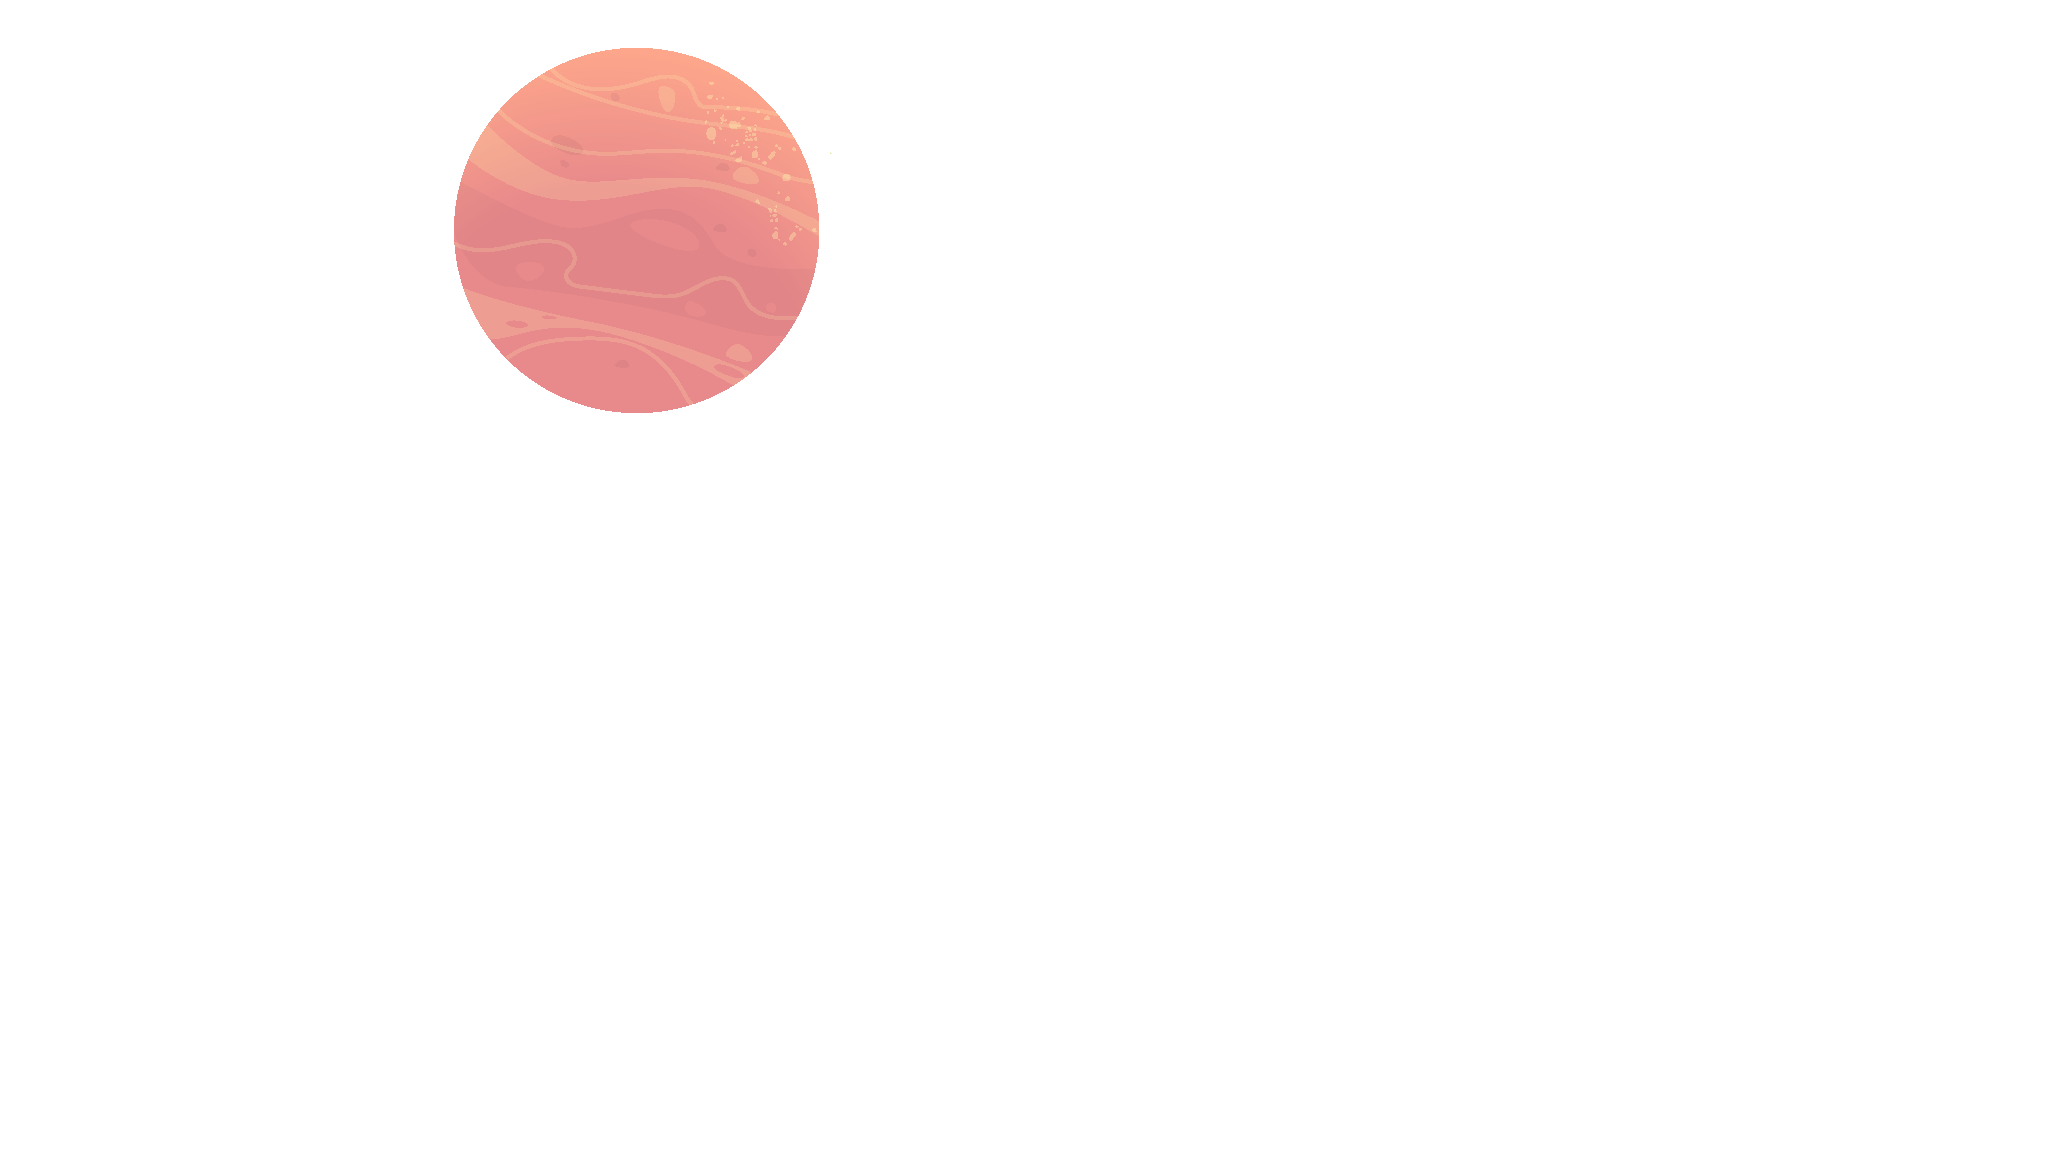
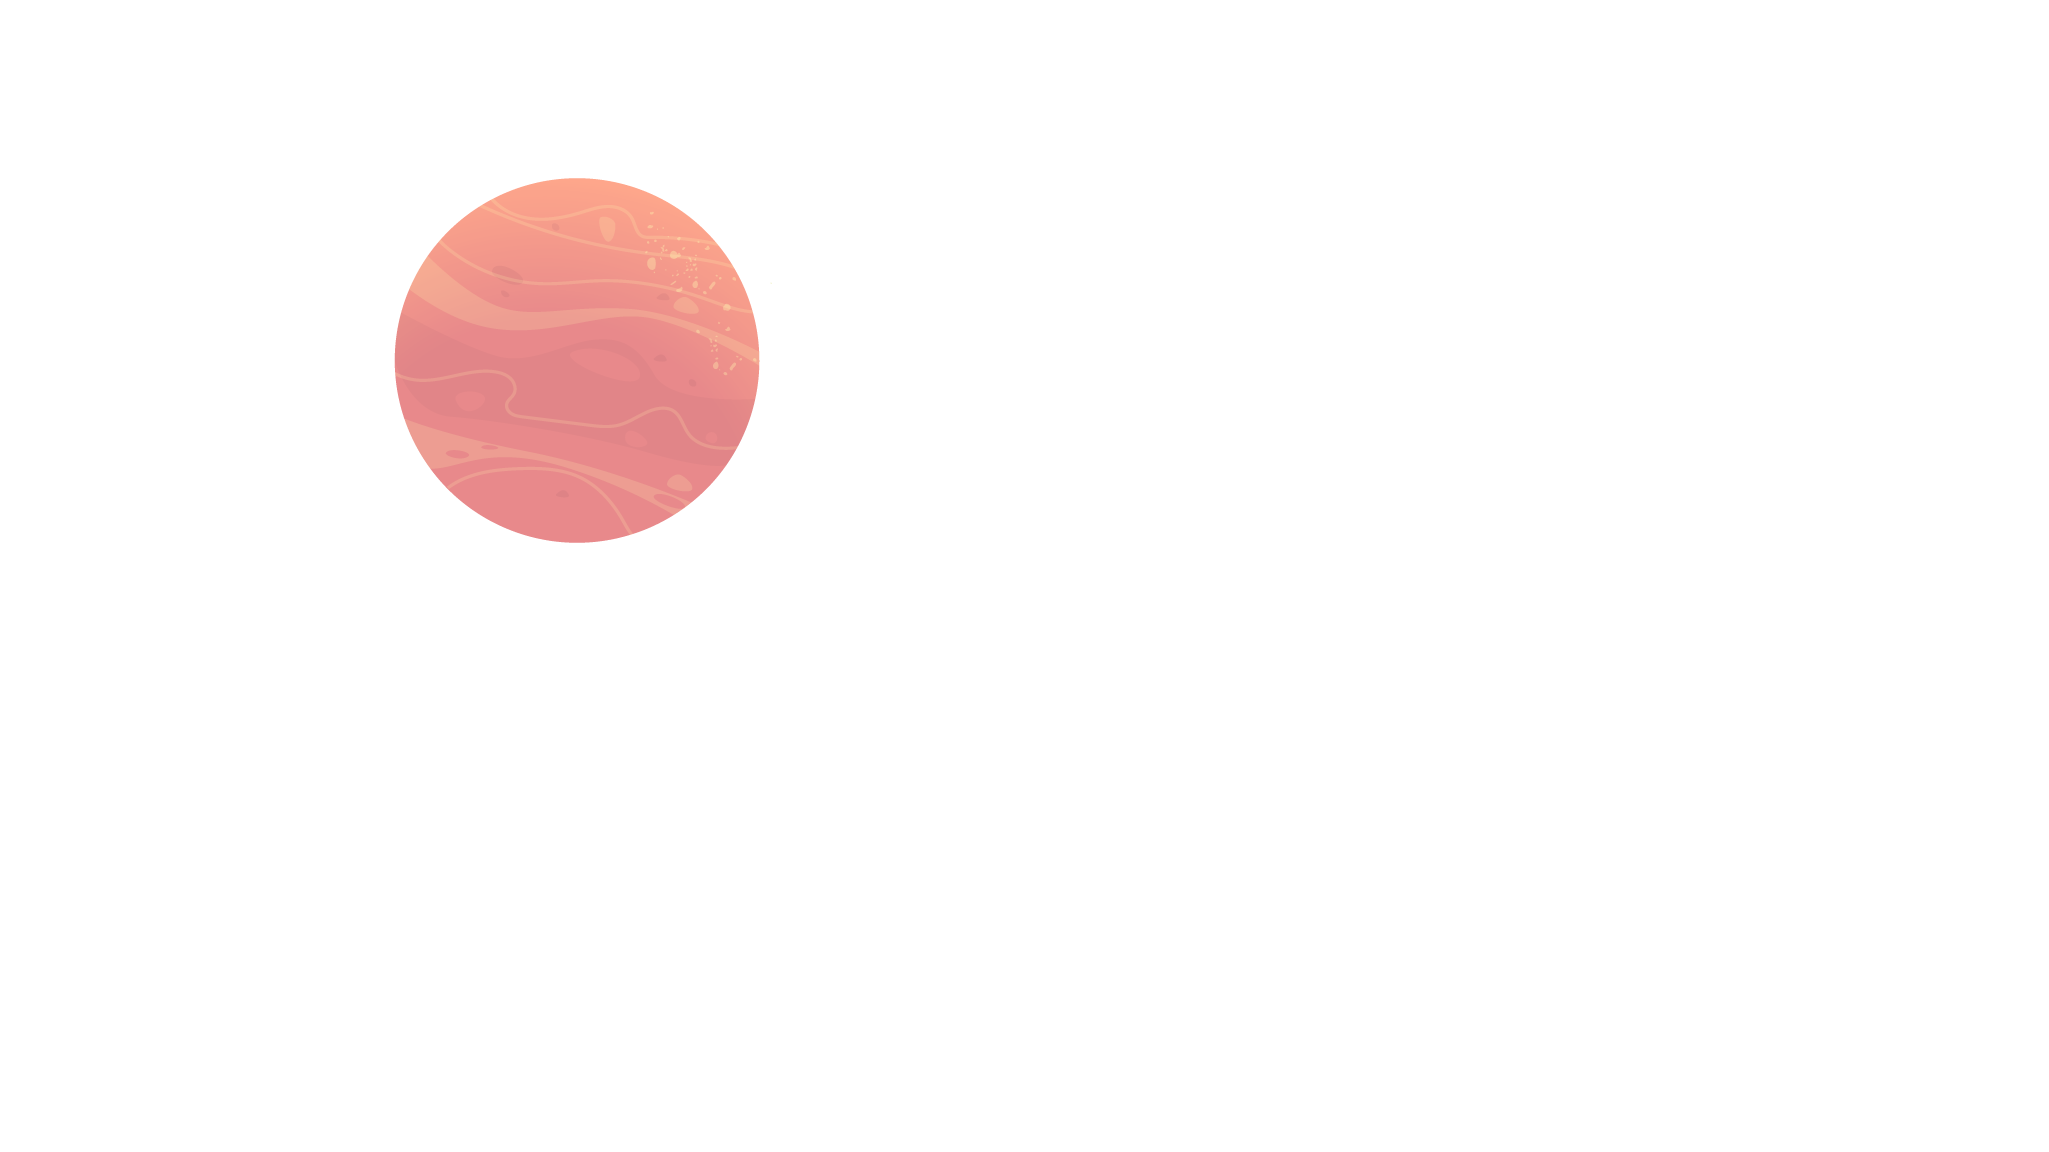
메인 페이지 행성 이미지 교체 및 애니메이트 처리, 헤더 테마 변경 섹션부분 전반적으로 수정, 개인소개 페이지 부분 내용 추가 및 이모지 이미지 추가

Changed region(s): [[0.1874, 0.0312, 0.4061, 0.4688]]

diff --git a/src/components/Header.tsx b/src/components/Header.tsx
@@ -3,6 +3,7 @@ import styled from "styled-components";
 import { useRecoilState, useRecoilValue } from "recoil";
 import { IsTop, IsUp, themeMode } from "../atom";
 import { motion, AnimatePresence } from "framer-motion";
+import { AiFillCaretDown } from "react-icons/ai";
 import { BsFillMoonStarsFill } from "react-icons/bs";
 import { IoMdPlanet } from "react-icons/io";
 
@@ -33,14 +34,16 @@ function Header() {
           <Box>
             <ThemeArea onClick={switchClickFn}>
               {theme === "moon" ? (
-                <SelectTheme>
-                  <BsFillMoonStarsFill className="icon" />
-                  <SText>Moon</SText>
+                <SelectTheme isOpen={isOpen}>
+                  <BsFillMoonStarsFill className="icon moon" />
+                  <SText>THEME</SText>
+                  <AiFillCaretDown className="arrow" />
                 </SelectTheme>
               ) : (
-                <SelectTheme>
+                <SelectTheme isOpen={isOpen}>
                   <IoMdPlanet className="icon" />
-                  <SText>Mars</SText>
+                  <SText>THEME</SText>
+                  <AiFillCaretDown className="arrow" />
                 </SelectTheme>
               )}
               {isOpen && (
@@ -50,8 +53,8 @@ function Header() {
                   animate="open"
                   exit="exit"
                 >
-                  <Theme onClick={() => setTheme("moon")}>Moon</Theme>
-                  <Theme onClick={() => setTheme("mars")}>Mars</Theme>
+                  <Theme onClick={() => setTheme("moon")}>MOON</Theme>
+                  <Theme onClick={() => setTheme("mars")}>MARS</Theme>
                 </ThemeList>
               )}
             </ThemeArea>
@@ -87,7 +90,7 @@ const headerVariants = {
 
 const themeSliderVariants = {
   close: {
-    y: -35,
+    y: -46,
     opacity: 0,
   },
   open: {
@@ -99,7 +102,7 @@ const themeSliderVariants = {
     },
   },
   exit: {
-    y: -35,
+    y: -46,
     opacity: 0,
     trasition: {
       type: "spring",
@@ -148,16 +151,22 @@ const Job = styled.span`
 `;
 
 const ThemeArea = styled.ul`
-  width: 14rem;
-  height: 3.5rem;
+  width: 15rem;
+  height: 4.6rem;
+  line-height: 4.6rem;
   border-radius: 5rem;
-  font-size: 2.4rem;
+  font-size: 2.2rem;
   font-weight: 300;
-  outline: 1px solid ${(props) => props.theme.logoColor};
+  border: 1px solid ${(props) => props.theme.logoColor};
+  transition: all 0.3s;
   cursor: pointer;
+
+  &:hover {
+    background-color: rgba(255, 255, 255, 0.2);
+  }
 `;
 
-const SelectTheme = styled.li`
+const SelectTheme = styled.li<{ isOpen: boolean }>`
   display: flex;
   justify-content: center;
   align-items: center;
@@ -167,15 +176,27 @@ const SelectTheme = styled.li`
   width: 100%;
 
   .icon {
-    font-size: 1.6rem;
-    margin-right: 0.4rem;
+    font-size: 2.6rem;
+    margin-right: 1rem;
+  }
+  .icon.moon {
+    font-size: 2rem;
+  }
+  .arrow {
+    margin-left: 1.6rem;
+    font-size: 1.3rem;
+    transition: all 0.3s;
+    ${(props) => (props.isOpen ? "transform: rotate(180deg);" : "")}
   }
 `;
 
 const ThemeList = styled(motion.ul)`
-  margin-top: 3.5rem;
+  margin-top: 5.2rem;
+  padding: 0.6rem;
   width: 100%;
-  background-color: ${(props) => props.theme.bgColor};
+  border-radius: 1.6rem;
+  /* background-color: ${(props) => props.theme.bgColor}; */
+  background-color: rgba(255, 255, 255, 0.2);
   overflow: hidden;
 `;
 
@@ -183,7 +204,7 @@ const Theme = styled.li`
   display: flex;
   justify-content: center;
   align-items: center;
-  padding-left: 1.6rem;
+  /* padding-left: 1.6rem; */
   width: 100%;
 `;
 

diff --git a/src/components/Section/IntroduceSection.tsx b/src/components/Section/IntroduceSection.tsx
@@ -2,21 +2,43 @@ import React from "react";
 import styled from "styled-components";
 import { AnimationOnScroll } from "react-animation-on-scroll";
 import "animate.css/animate.min.css";
+import me from "../../assets/imgs/introduce/me.png";
 
 function IntroduceSection() {
   return (
     <Wrapper>
       <AnimationOnScroll animateIn="animate__bounceInUp">
-        <Title>Introduce</Title>
+        <SectionName>Introduce</SectionName>
       </AnimationOnScroll>
       <AnimationOnScroll animateIn="animate__bounceInUp" delay={300}>
         <Contents>
-          안녕하세요? 박신우입니다. <br />
-          안녕하세요? 박신우입니다. <br />
-          안녕하세요? 박신우입니다. <br />
-          안녕하세요? 박신우입니다. <br />
-          안녕하세요? 박신우입니다. <br />
-          안녕하세요? 박신우입니다. <br />
+          <ImgArea>
+            <img src={me} alt="psw" />
+          </ImgArea>
+          <TextArea>
+            <Title>
+              안녕하세요!
+              <br /> 웹 개발자 박신우입니다. 😊
+            </Title>
+            <Paragraph>
+              지금까지 5년차 풀 스택 개발자로 여러가지 경험을 쌓았습니다.
+              <br />
+              <br />
+              프론트엔드와 백엔드 개발이 모두 재밌지만,
+              <br />
+              한가지에 집중 하고자 프론트엔드를 선택해 공부 중입니다.
+              <br />
+              <br />
+              React와 ES6 이상의 문법, Typescript등을 습득하고 있으며,
+              <br />
+              필요한 기술들을 추가적으로 학습 중입니다.
+              <br />
+              <br />
+              그동안 제가 개발해온 작업물과 미니 프로젝트를 구경해보세요!
+              <br />
+              감사합니다 :)
+            </Paragraph>
+          </TextArea>
         </Contents>
       </AnimationOnScroll>
     </Wrapper>
@@ -26,16 +48,59 @@ function IntroduceSection() {
 export default IntroduceSection;
 
 const Wrapper = styled.section`
-  padding: 2rem 10rem;
+  position: relative;
+  padding: 8rem 10rem 2rem;
   height: 100vh;
+
+  &::before {
+    content: "";
+    position: absolute;
+    top: 0;
+    left: 0;
+    width: 100%;
+    height: 180px;
+    background: linear-gradient(
+      to top,
+      ${(props) => props.theme.bgColor},
+      ${(props) => props.theme.bgGradientEndColor}
+    );
+  }
 `;
 
-const Title = styled.div`
+const SectionName = styled.div`
   font-size: 7.2rem;
   font-weight: 700;
 `;
 
 const Contents = styled.div`
-  font-size: 3.6rem;
-  font-weight: 600;
+  display: flex;
+  justify-content: center;
+  width: 100%;
+  padding: 10rem;
+  /* outline: 1px solid red; */
+`;
+
+const Area = styled.div`
+  width: 50%;
+  padding: 1rem;
+  /* outline: 1px solid red; */
+`;
+
+const ImgArea = styled(Area)`
+  display: flex;
+  justify-content: center;
+  align-items: center;
+`;
+
+const TextArea = styled(Area)``;
+
+const Title = styled.h2`
+  font-size: 4.8rem;
+  font-weight: 700;
+`;
+
+const Paragraph = styled.p`
+  padding-top: 1.2rem;
+  font-size: 2.4rem;
+  font-weight: 400;
 `;

diff --git a/src/components/MainTheme/Mars.tsx b/src/components/MainTheme/Mars.tsx
@@ -31,7 +31,11 @@ function Mars() {
 
     // 행성 이미지
     if (ref_planet.current) {
-      ref_planet.current.style.top = `-${scrollY * 0.15}rem`;
+      ref_planet.current.style.top = `${scrollY * 0.25}rem`;
+      ref_planet.current.style.left = `-${scrollY * 0.05}rem`;
+
+      const scaleValue = scrollY === 0 ? 1 : 1 + scrollY * -0.0015;
+      ref_planet.current.style.scale = `${scaleValue}`;
     }
 
     // 구름 이미지
@@ -98,7 +102,7 @@ function Mars() {
       >
         PORTFOLIO
       </MainText>
-      <Explore ref={ref_explore}>Explore</Explore>
+
       <ImgTag
         src={moutains_front}
         alt="moutains_front"
@@ -136,21 +140,13 @@ const ImgTag = styled.img`
     animation: bounceAnimation 3s infinite;
     z-index: 6;
   }
-
   &.cloud {
     z-index: 7;
+    animation: cloudAnimation 4s ease infinite;
   }
-
   &.planet {
+    margin-top: -10rem;
     animation: transScale 5s infinite;
-    /* transform: scale(0.8);
-     */
-    /**
-     * 결과 색상을 항상 더 밝은 색상이 나오도록 한다.
-     * 결과적으로 흰색 달과 주변의 빛만 먼저 나오고 주변의 어두운 색상보다는 배경의 gradient색상이 더 밝기때문에,
-     * 검정효과는 사라지게 된다.
-     * 포토샵 효과!
-     */
   }
   &.moutains_behind01 {
     z-index: 9;
@@ -167,10 +163,22 @@ const ImgTag = styled.img`
       transform: scale(1);
     }
     50% {
-      transform: scale(1.05);
+      transform: scale(0.9);
     }
     100% {
       transform: scale(1);
+    }
+  }
+
+  @keyframes cloudAnimation {
+    0% {
+      transform: translateX(0);
+    }
+    50% {
+      transform: translateX(15px);
+    }
+    100% {
+      transform: translateX(0);
     }
   }
 
@@ -191,20 +199,8 @@ const MainText = styled(motion.p)`
   position: absolute;
   top: 40%;
   color: #fff;
+  font-size: 11.5rem;
   font-weight: 800;
   white-space: nowrap;
-  font-size: 9.5rem;
-  z-index: 9;
-`;
-
-const Explore = styled.button`
-  display: inline-block;
-  padding: 0.8rem 3rem;
-  border-radius: 4rem;
-  background: ${(props) => props.theme.btnColor};
-  color: ${(props) => props.theme.btnTxtColor};
-  font-size: 1.5em;
-  z-index: 9;
-  transform: translateY(100px);
-  cursor: pointer;
+  z-index: 8;
 `;

diff --git a/src/theme.ts b/src/theme.ts
@@ -13,9 +13,9 @@ export const moonTheme: DefaultTheme = {
 
 export const marsTheme: DefaultTheme = {
   bgColor: "#f8f8f387",
-  bgGradientStartColor: "#d03e57",
+  bgGradientStartColor: "#e14b57",
   bgGradientEndColor: "#fffee6",
-  logoColor: "#000",
+  logoColor: "#fff",
   textColor: "#000",
   btnColor: "#fff",
   btnTxtColor: "#2b1055",

diff --git a/src/components/Main.tsx b/src/components/Main.tsx
@@ -60,10 +60,10 @@ const Section = styled.section`
     position: absolute;
     bottom: 0;
     width: 100%;
-    height: 100px;
+    height: 75px;
     background: linear-gradient(
       to top,
-      ${(props) => props.theme.bgColor},
+      ${(props) => props.theme.bgGradientEndColor},
       transparent
     );
     z-index: 1000;

diff --git a/src/components/MainTheme/Moon.tsx b/src/components/MainTheme/Moon.tsx
@@ -73,7 +73,7 @@ function Moon() {
       >
         PORTFOLIO
       </MainText>
-      <Explore ref={ref_explore}>Explore</Explore>
+      {/* <Explore ref={ref_explore}>Explore</Explore> */}
       <ImgTag
         src={moutains_front}
         alt="moutains_front"
